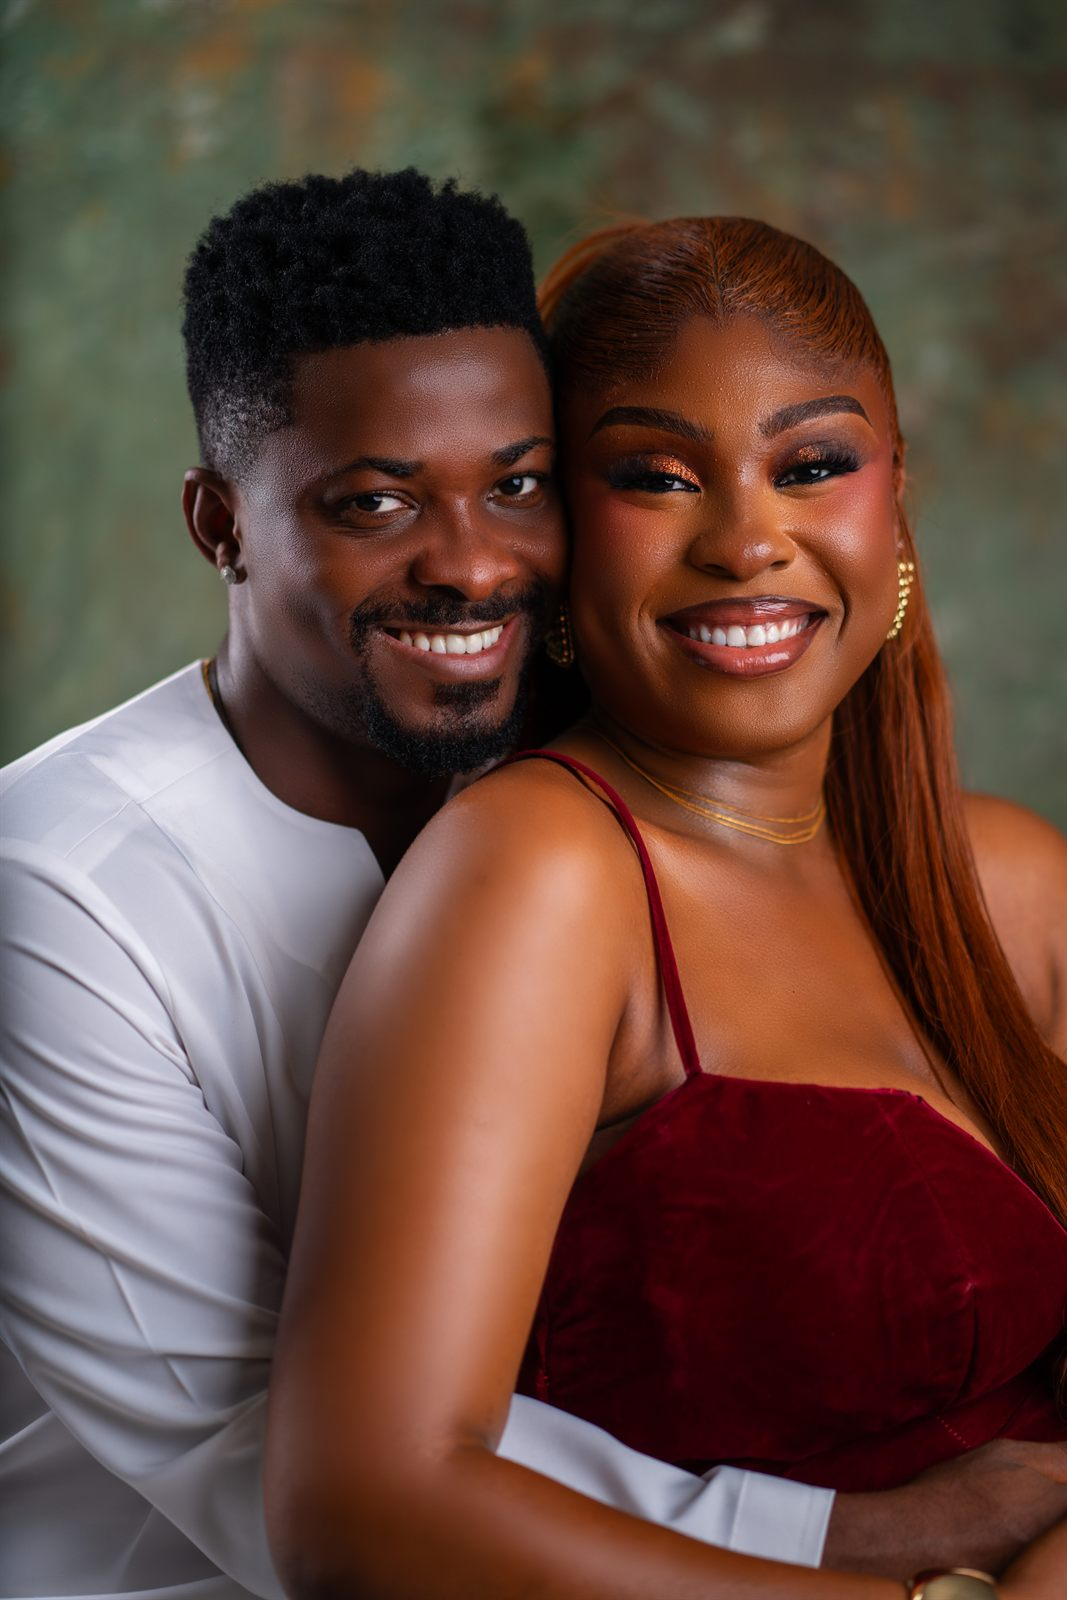
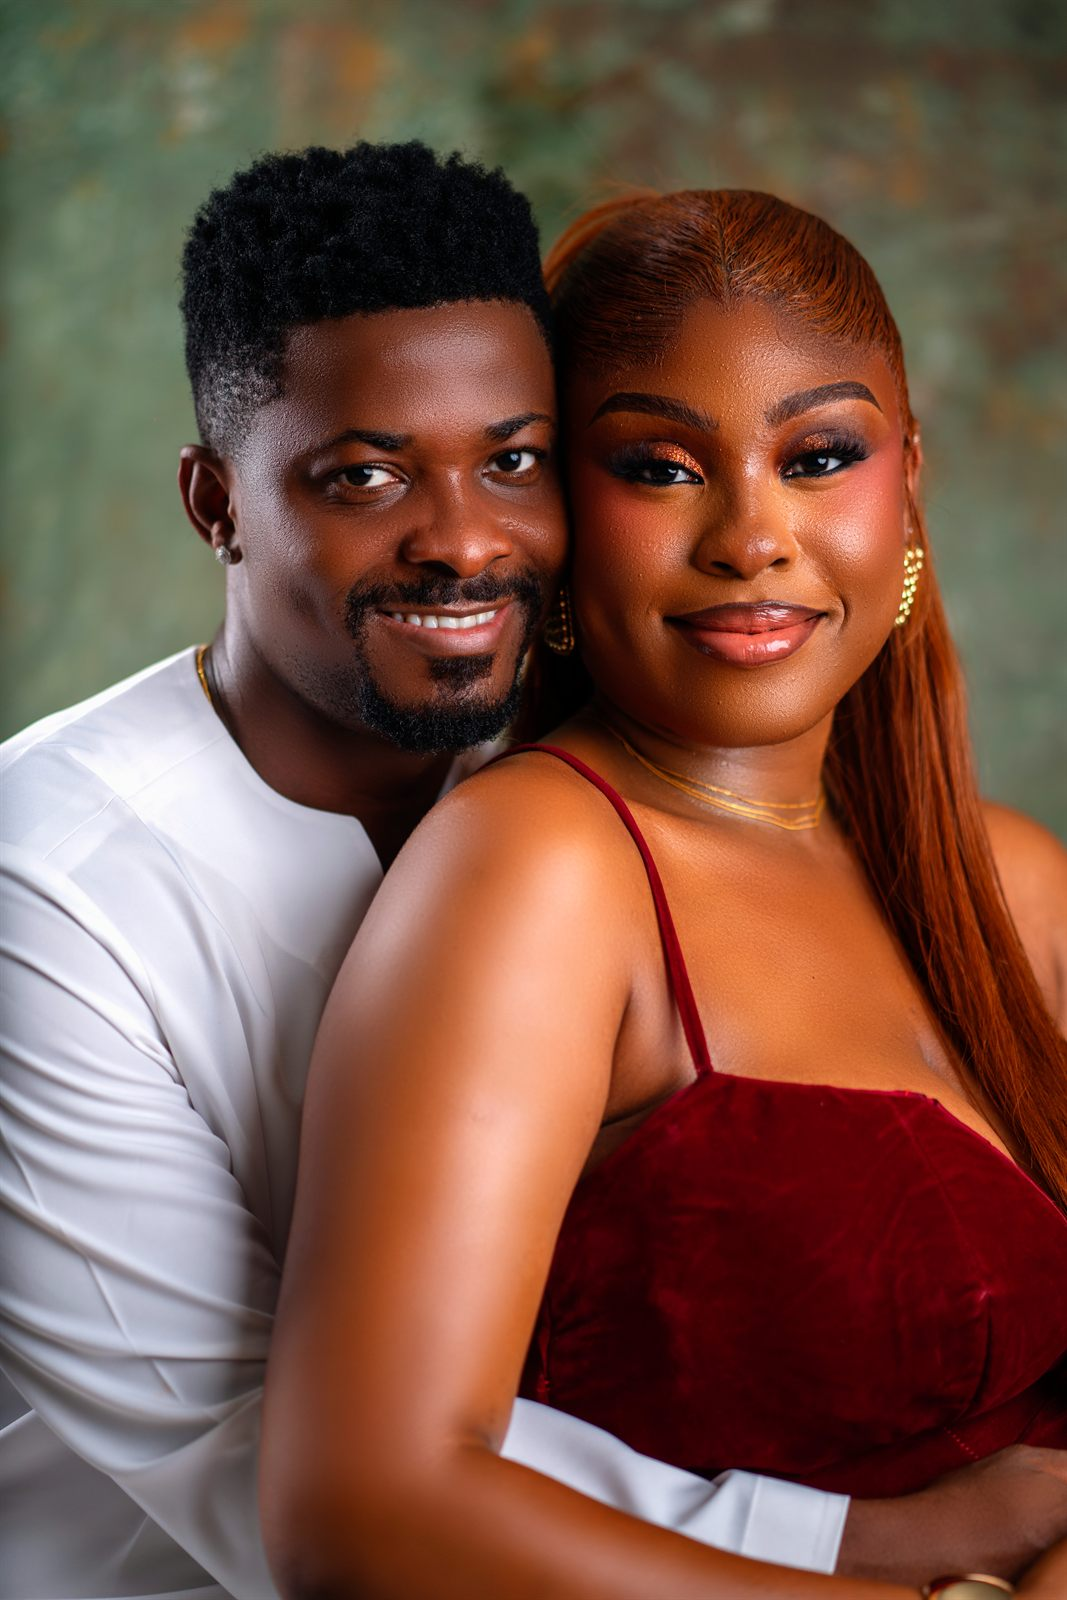
Replace the gallery photos with the new full quality set

diff --git a/script.js b/script.js
@@ -15,8 +15,8 @@ const CONFIG = {
   // (The photo behind the names is set in styles.css, under .hero-bg.)
   photos: [
     { src: "photos/moment-1.jpg", pos: "50% 28%", alt: "Oluebube and Onyedikachi smiling together, cheek to cheek" },
-    { src: "photos/moment-2.jpg", pos: "50% 22%", alt: "Oluebube embracing Onyedikachi from behind as he smiles up at her" },
-    { src: "photos/moment-3.jpg", pos: "50% 30%", alt: "Onyedikachi seated on a wooden bench with Oluebube standing behind him, arms wrapped around him" },
+    { src: "photos/moment-2.jpg", pos: "50% 30%", alt: "Onyedikachi seated on a wooden bench with Oluebube standing behind him, arms wrapped around him" },
+    { src: "photos/moment-3.jpg", pos: "50% 22%", alt: "Oluebube embracing Onyedikachi from behind as he smiles up at her" },
   ],
 
   // Footer contacts

diff --git a/index.html b/index.html
@@ -406,6 +406,6 @@
   </div>
 
   <script src="petals.js?v=7"></script>
-  <script src="script.js?v=8"></script>
+  <script src="script.js?v=9"></script>
 </body>
 </html>
